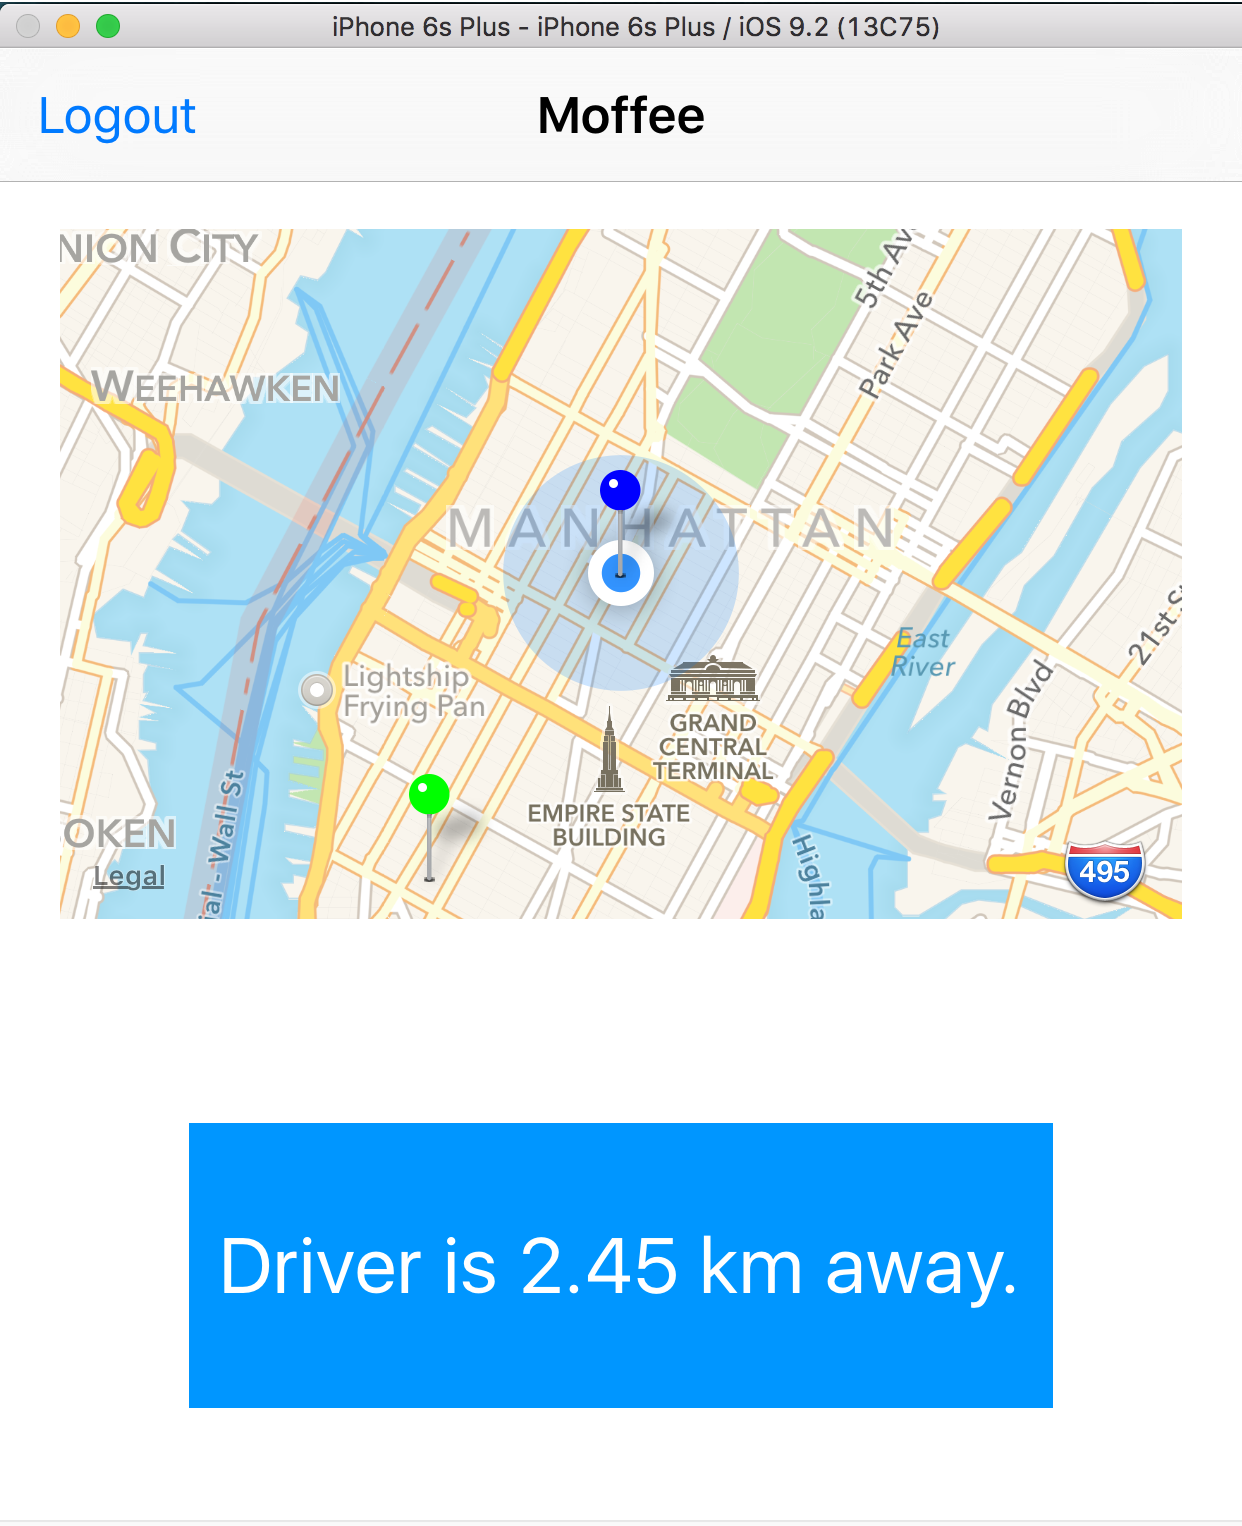
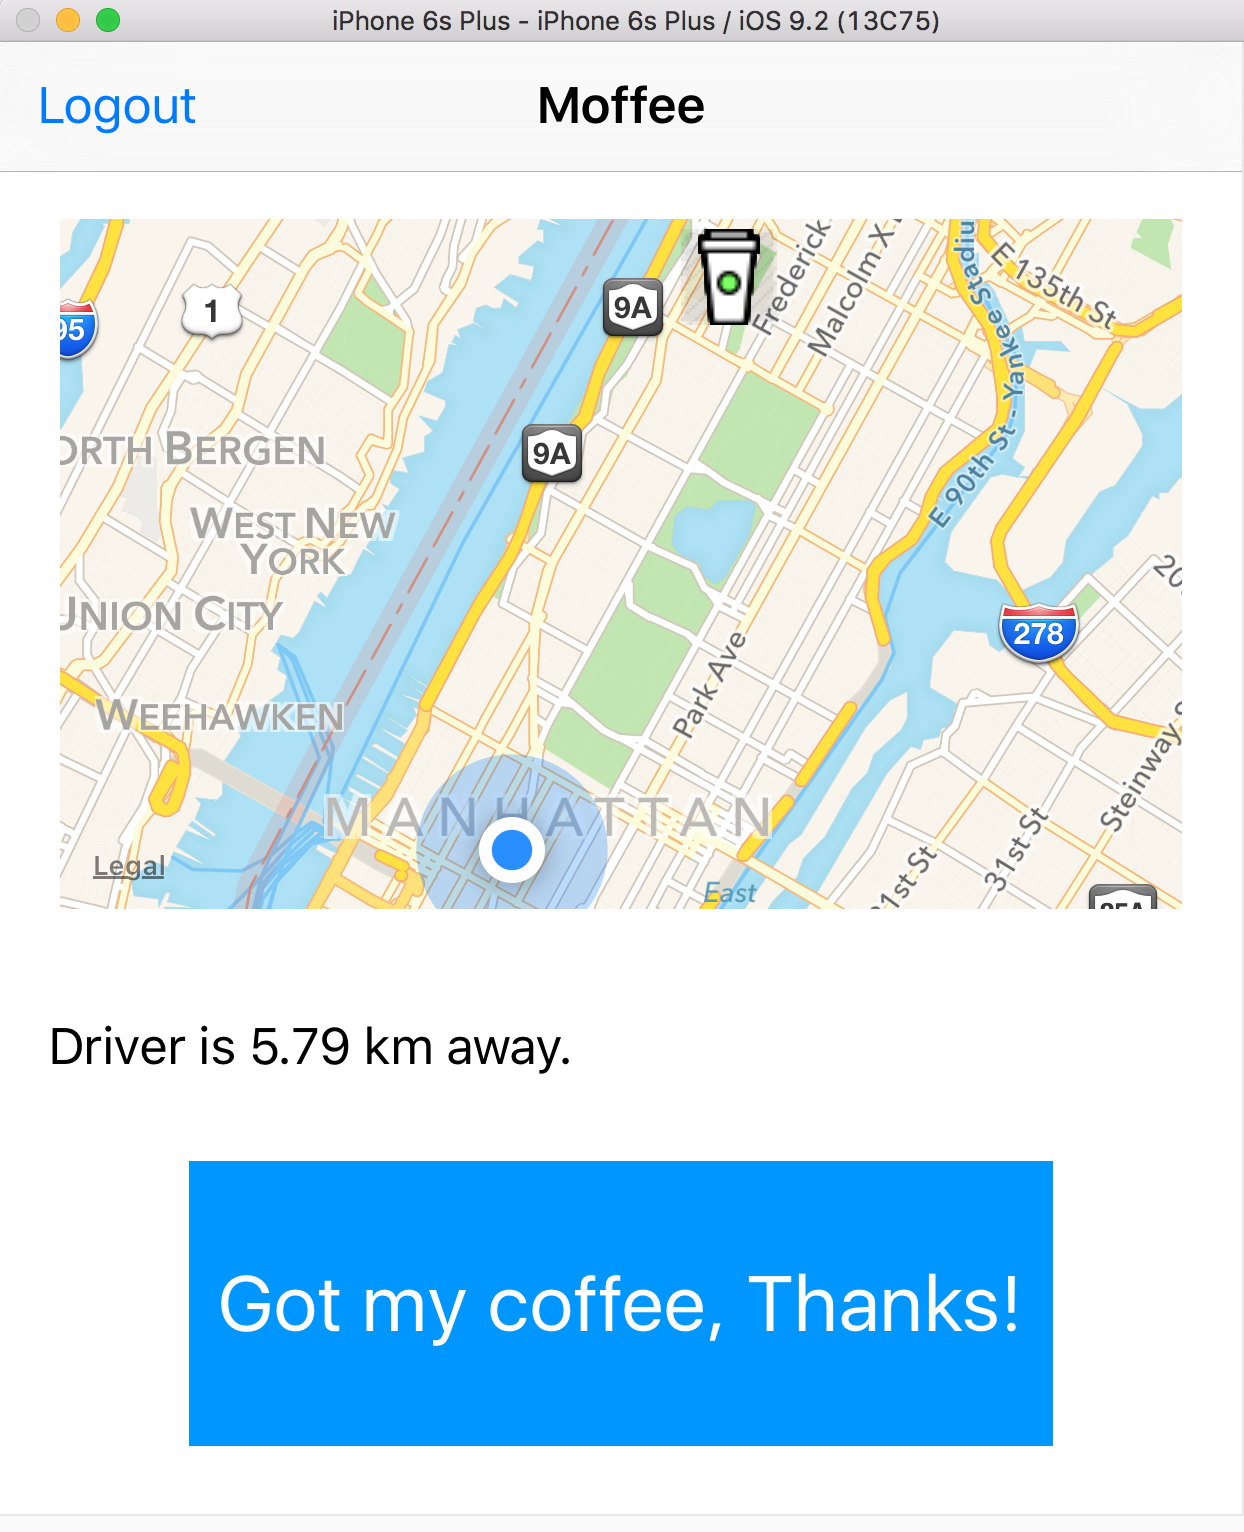
added screenshots and updated the README

diff --git a/ParseStarterProject/RiderViewController.swift b/ParseStarterProject/RiderViewController.swift
@@ -241,10 +241,13 @@ class RiderViewController: UIViewController, CLLocationManagerDelegate, MKMapVie
         
         self.driverOnTheWay = true
         
-        let center = CLLocationCoordinate2D(latitude: userLocation.coordinate.latitude, longitude: userLocation.coordinate.longitude)
+        let latDiff = driverLocation.coordinate.latitude - userLocation.coordinate.latitude;
+        let lonDiff = driverLocation.coordinate.longitude - userLocation.coordinate.longitude;
         
-        let latDelta = (abs(driverLocation.coordinate.latitude - userLocation.coordinate.latitude) + 0.006)*2
-        let longDelta = (abs(driverLocation.coordinate.longitude - userLocation.coordinate.longitude) + 0.006)*2
+        let center = CLLocationCoordinate2D(latitude: userLocation.coordinate.latitude + (latDiff)*0.5, longitude: userLocation.coordinate.longitude + (lonDiff)*0.5)
+        
+        let latDelta = (abs(latDiff) + 0.01)
+        let longDelta = (abs(lonDiff) + 0.01)
         
         let region = MKCoordinateRegion(center: center, span: MKCoordinateSpan(latitudeDelta: latDelta, longitudeDelta: longDelta))
         

diff --git a/README.md b/README.md
@@ -22,5 +22,18 @@ Here are some screenshots:
 <b>Current Mofer Requests</b><br>
 <img src="https://github.com/codekitty/Moffee/blob/master/Images/Screenshots/MoferRequests.png" width=40%> <br>
 
+<b>Mofer view of specific Request</b><br>
+<img src="https://github.com/codekitty/Moffee/blob/master/Images/Screenshots/single_request_view.png" width=40%> <br>
+<img src="https://github.com/codekitty/Moffee/blob/master/Images/Screenshots/single_request_view_with_username.png" width=40%> <br>
+
+<b>If Mofer accepts - path is opened in maps</b><br>
+<img src="https://github.com/codekitty/Moffee/blob/master/Images/Screenshots/open_in_maps.png" width=40%> <br>
+
+<b>Request Accepted is updated in requests table</b><br>
+<img src="https://github.com/codekitty/Moffee/blob/master/Images/Screenshots/requests_table_with_response.png" width=70%><br>
+
 <b>Users table in Parse</b><br>
 <img src="https://github.com/codekitty/Moffee/blob/master/Images/Screenshots/users_table.png" width=70%> <br>
+
+<b>Coffee Shops table in Parse - using phone number as indentifier</b><br>
+<img src="https://github.com/codekitty/Moffee/blob/master/Images/Screenshots/coffeeshop_table.png" width=70%> <br>
